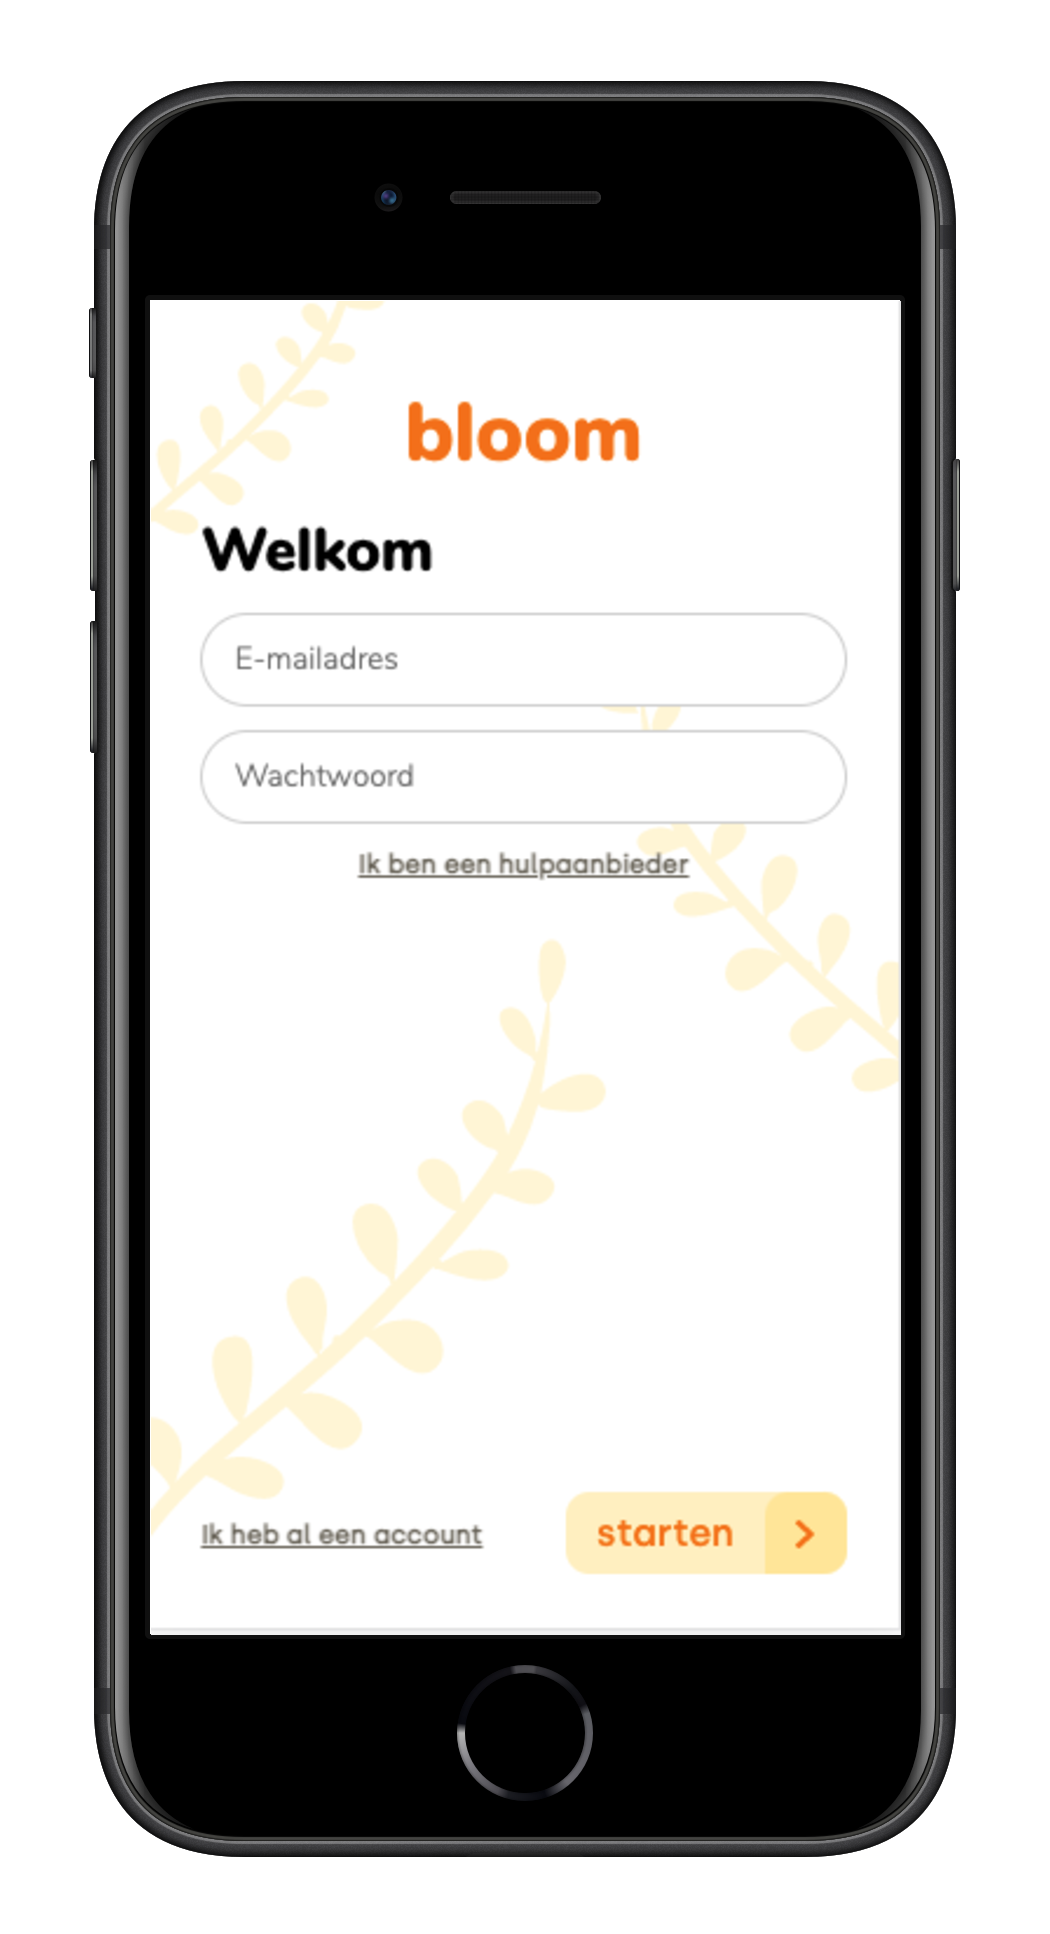
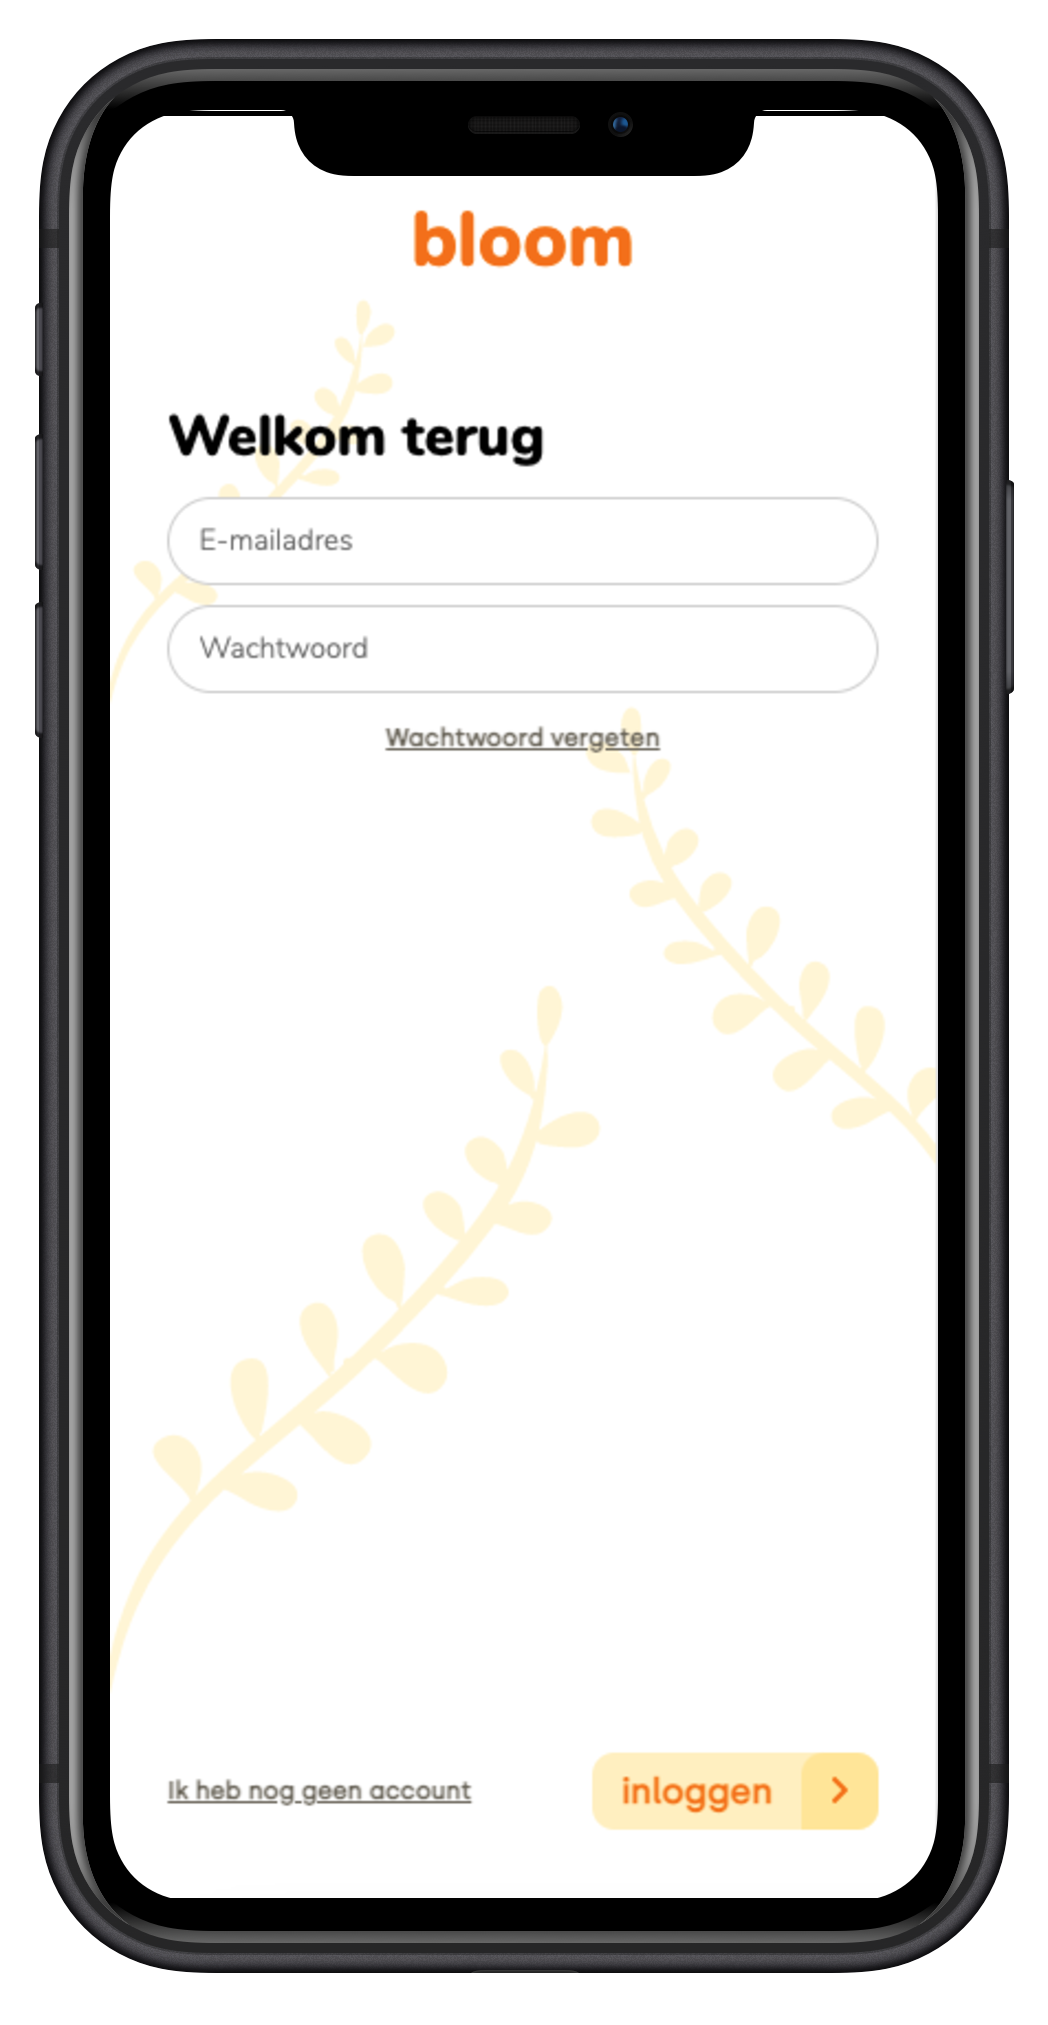
[update: take better screenshots]

diff --git a/README.md b/README.md
@@ -41,15 +41,22 @@ The purpose of this application is to connect people who have had or still have 
 - You can register an account via a Progressive Disclosure register process
 - You can login onto your account
 - You can assume a lot of information about cancer at the Themes page
-- You can see other buddies  
+- You can see other buddies
+- You can filter the buddies
+- You can match a buddy by beginning a chat with him/her
+- You can chat with a buddy
 
 ### Tech-features
 - passsword hashing
 - vuex store encrypointg
 - localstorage
 
-### UI
+### User Interface
 Screenshots of the pages in the application
+
+<img src="docs/UI/start.png" alt="The user interface of the start page" width="300"/>
+
+<img src="docs/UI/onboarding.png" alt="The user interface of the onboarding page" width="300"/>
 
 <img src="docs/UI/login.png" alt="The user interface of the login page" width="300"/>
 
@@ -58,6 +65,10 @@ Screenshots of the pages in the application
 <img src="docs/UI/themes.png" alt="The user interface of the themes page" width="300"/>
 
 <img src="docs/UI/buddies.png" alt="The user interface of the Buddies page" width="300"/>
+
+<img src="docs/UI/chats.png" alt="The user interface of the chats page" width="300"/>
+
+<img src="docs/UI/chat-detail.png" alt="The user interface of the chat-detail page" width="300"/>
 
 ## :1234: Data  
 We used Mongoose data schemas to create schemas before we insert the data.
